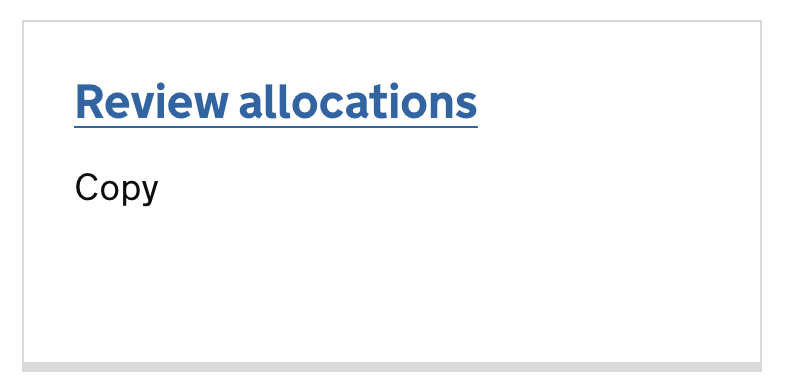
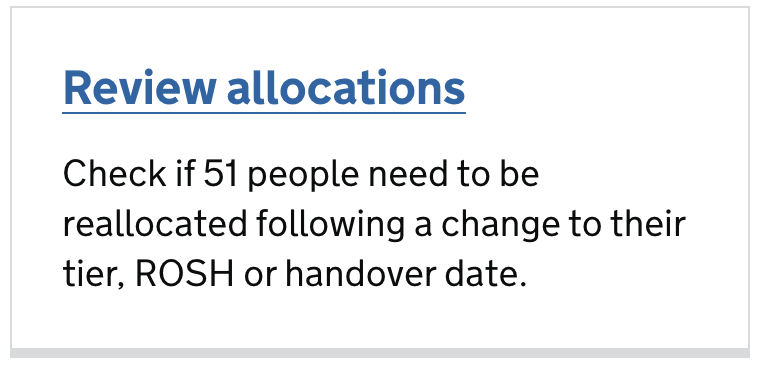
CiC changes for tile, empty states

diff --git a/app/views/index.html b/app/views/index.html
@@ -197,6 +197,8 @@
               <h3 class="govuk-heading-s" style="margin-top: 40px;">Review allocations (Change in circumstances)<strong class="govuk-tag govuk-tag--yellow" style="margin-left: 10px;">Work in progress</strong></h3>
               <p>Last updated: Tiering/ROSH changes autumn 2026</p>
               <ul class="govuk-list govuk-list--bullet">
+                <li><a class="govuk-link govuk-link--no-visited-state" href="./entrypoints/mpc-home">MPC homepage</a></li>
+                <li><a class="govuk-link govuk-link--no-visited-state" href="./entrypoints/mpc-home?state=empty">MPC homepage – empty state</a></li>
                 <li><a class="govuk-link govuk-link--no-visited-state" href="./allocations/final/change-of-circumstances">Review allocations</a></li>
                 <li><a class="govuk-link govuk-link--no-visited-state" href="./allocations/final/change-of-circumstances?state=empty">Review allocations – empty state</a></li>
                 <li><a class="govuk-link govuk-link--no-visited-state" href="./allocations/final/change-of-circumstances-review?prisoner=john">Case detail with tier, ROSH and handover change</a></li>

diff --git a/app/views/entrypoints/mpc-home-comms.html b/app/views/entrypoints/mpc-home-comms.html
@@ -142,7 +142,11 @@ Make allocations – Digital Prison Services
         <div class="card card--clickable" data-test="secure-move">
             <h2 class="govuk-heading-m card__heading">
               <a class="govuk-link card__link govuk-link--no-visited-state" href="../allocations/final/change-of-circumstances">Review allocations</a></h2>
-                <p class="govuk-body card__description">Check if people need to be reallocated following a change to their tier, ROSH or handover date.</p>
+                {% if data['state'] == 'empty' %}
+                No allocations to review following a change to tier, ROSH or handover date.
+                {% else %}
+                <p class="govuk-body card__description">Check if 51 people need to be reallocated following a change to their tier, ROSH or handover date.</p>
+                {% endif %}
         </div>
       </li>
 

diff --git a/app/views/entrypoints/mpc-home.html b/app/views/entrypoints/mpc-home.html
@@ -119,7 +119,11 @@ Make allocations – Digital Prison Services
 
        <li class="govuk-grid-column-one-third card-group__item">
         <a href="#">
-          <img src="/public/images/homepage/Tile-Review-allocations.png" alt="User icon" style="width: 395px;">
+          {% if data['state'] == 'empty' %}
+          <img src="/public/images/homepage/Tile-Review-allocations-empty-state.png" alt="User icon" style="width: 380px;">
+          {% else %}
+          <img src="/public/images/homepage/Tile-Review-allocations.png" alt="User icon" style="width: 380px;">
+          {% endif %}
         </a>
         <!--<div class="card card--clickable">
             <h2 class="govuk-heading-m card__heading">

diff --git a/app/views/allocations/final/change-of-circumstances.html b/app/views/allocations/final/change-of-circumstances.html
@@ -51,7 +51,7 @@ Cases to update – Digital Prison Services
     {% elif data['prisoner'] == 'john' %}
     John Hunt 
     {% endif %}
-    reallocated to Annie Bradley
+    allocated to Annie Bradley
 
       <details class="govuk-details" style="margin-bottom: 5px; margin-top: 10px;">
       <summary class="govuk-details__summary">
@@ -179,7 +179,7 @@ Cases to update – Digital Prison Services
       </h1>
 
        {% if data['state'] == 'empty' %}
-        <p>Empty state copy</p>
+        <p>No allocations to review</p>
        {% else %}
 
       <p>Select someone’s name to decide if they need to be reallocated following a change to their tier, ROSH or handover date.</p>
